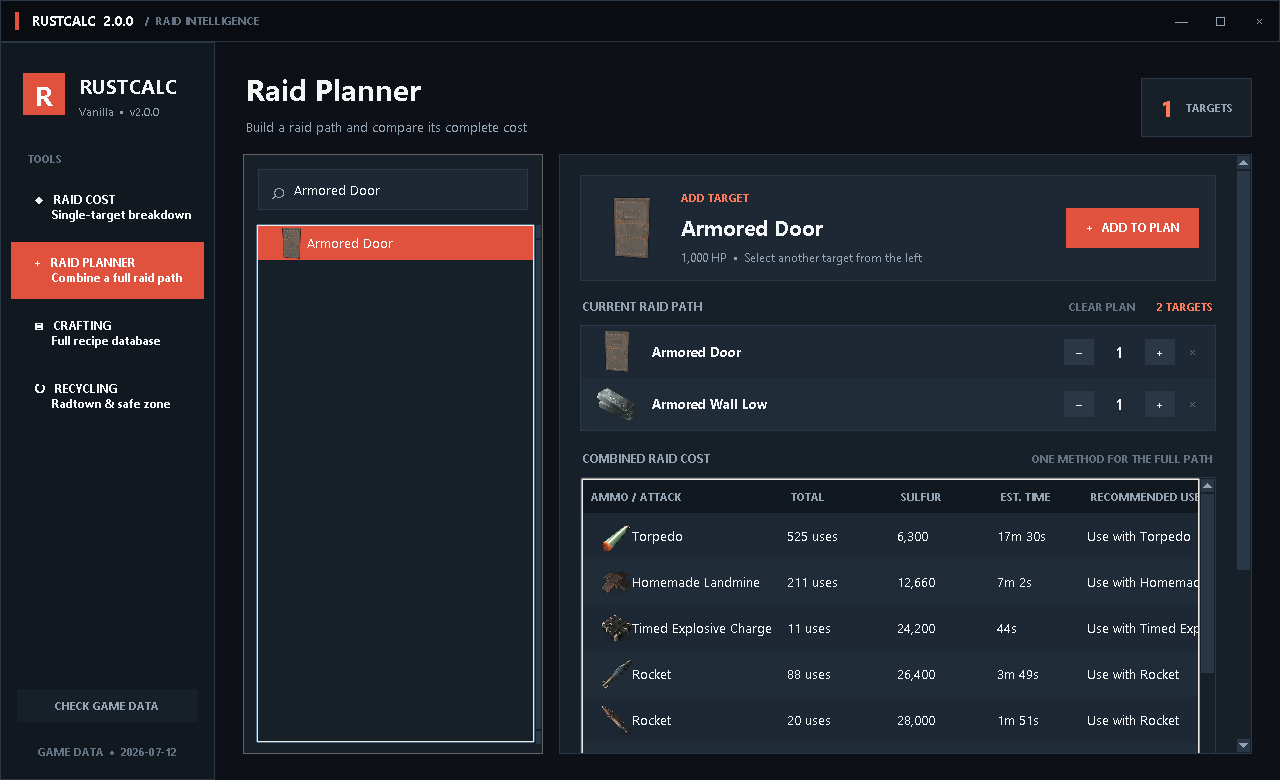
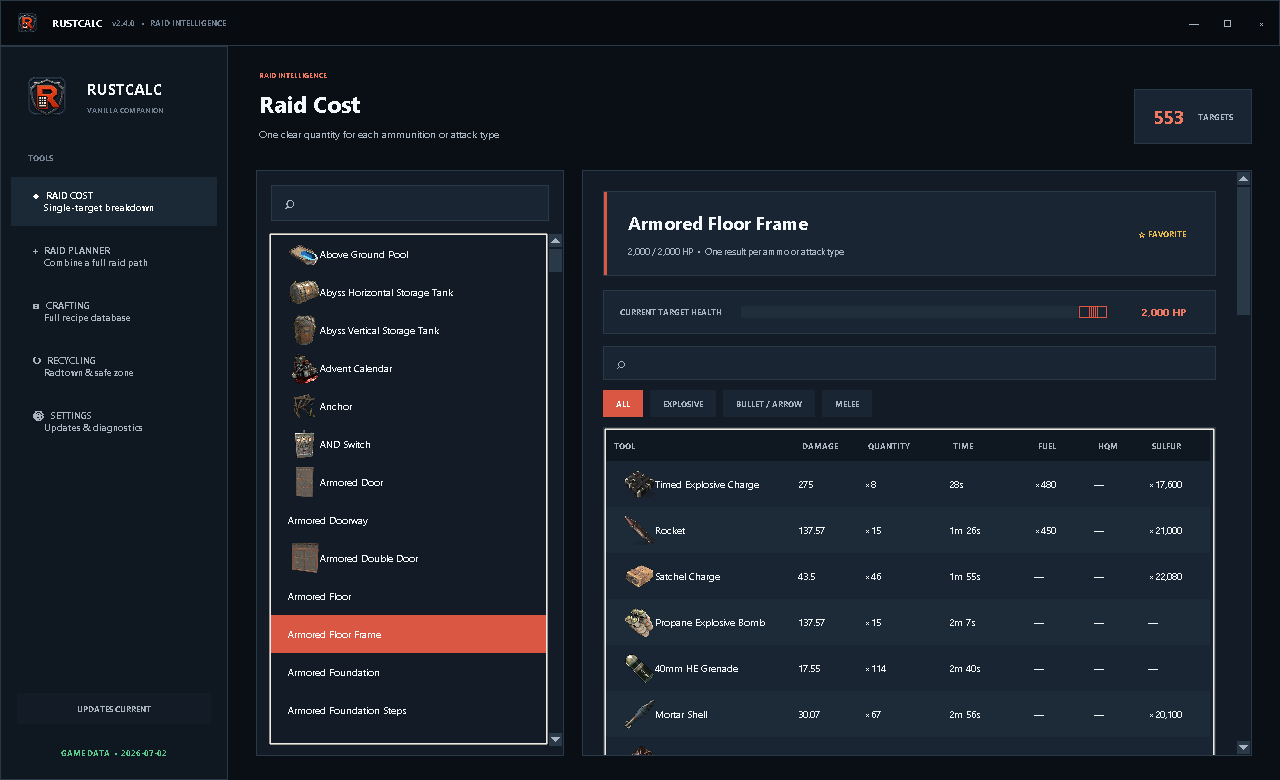
Publish v2.4.0 professional redesign

diff --git a/README.md b/README.md
@@ -15,7 +15,7 @@ opening a browser for every calculation.
 
 Download the installer from the **[latest RustCalc release](https://github.com/Bray12541/Rust-Calculator/releases/latest)**.
 
-1. Download `RustCalc-Setup-2.3.2.exe` from the release's **Assets** section.
+1. Download `RustCalc-Setup-2.4.0.exe` from the release's **Assets** section.
 2. Run the installer.
 3. Launch RustCalc from the desktop shortcut or Start Menu.
 
@@ -64,6 +64,12 @@ Python is not required. RustCalc supports 64-bit Windows 10 and Windows 11.
 - Settings for update preferences, UI scale, text size, and window position
 - Crash logs, diagnostics, update history, and raid-data regression checks
 
+### Professional interface
+
+- Refined dark theme with clearer spacing, hierarchy, and table readability
+- Integrated RustCalc title bar, consistent shield branding, and responsive navigation states
+- Genuine offline item artwork with clean text-only rows when no real icon is available
+
 ![RustCalc crafting calculator](screenshots/crafting.png)
 
 ## Automatic updates
@@ -82,16 +88,16 @@ Saved raid plans and preferences are retained during application updates.
 
 ## Verify the installer
 
-RustCalc v2.3.2 installer SHA-256:
+RustCalc v2.4.0 installer SHA-256:
 
 ```text
[2 lines of base64/hex data omitted]
 ```
 
 In PowerShell, verify a downloaded installer with:
 
 ```powershell
-Get-FileHash .\RustCalc-Setup-2.3.2.exe -Algorithm SHA256
+Get-FileHash .\RustCalc-Setup-2.4.0.exe -Algorithm SHA256
 ```
 
 The resulting hash should exactly match the value above.
@@ -109,7 +115,7 @@ is automatically validated before replacing the working offline data.
 
 ## Current version
 
-**RustCalc 2.3.2**
+**RustCalc 2.4.0**
 
 See the [GitHub Releases page](https://github.com/Bray12541/Rust-Calculator/releases)
 for release notes and previous installers.